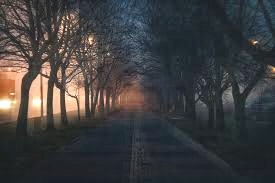
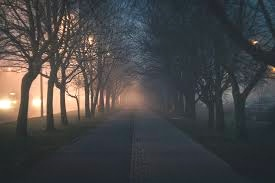
Added the soft matting part into the code.

diff --git a/our_impl.py b/our_impl.py
@@ -3,10 +3,38 @@ import cv2
 import sys
 import heapq
 
+
+def Guidedfilter(im,p,r,eps):
+    mean_I = cv2.boxFilter(im,cv2.CV_64F,(r,r)) 
+    mean_p = cv2.boxFilter(p, cv2.CV_64F,(r,r)) 
+    mean_Ip = cv2.boxFilter(im*p,cv2.CV_64F,(r,r)) 
+    cov_Ip = mean_Ip - mean_I*mean_p 
+
+    mean_II = cv2.boxFilter(im*im,cv2.CV_64F,(r,r)) 
+    var_I   = mean_II - mean_I*mean_I 
+
+    a = cov_Ip/(var_I + eps) 
+    b = mean_p - a*mean_I 
+
+    mean_a = cv2.boxFilter(a,cv2.CV_64F,(r,r)) 
+    mean_b = cv2.boxFilter(b,cv2.CV_64F,(r,r)) 
+
+    q = mean_a*im + mean_b 
+    return q 
+
+def TransmissionRefine(im,et):
+    gray = cv2.cvtColor(im,cv2.COLOR_BGR2GRAY) 
+    gray = np.float64(gray)/255 
+    r = 60 
+    eps = 0.0001 
+    t = Guidedfilter(gray,et,r,eps) 
+
+    return t 
+
 file_name = sys.argv[1]
 
-
-I = cv2.imread(file_name, cv2.IMREAD_COLOR).astype("float64")/255 
+src = cv2.imread(file_name, cv2.IMREAD_COLOR)
+I = src.astype("float64")/255 
 
 #print(I[500:550, 500:550, :])
 
@@ -53,7 +81,7 @@ for _, i, j in HEAP:
 		
 				
 #transmission
-omega = 0.95
+omega = 0.75
 temp_I = np.empty(I.shape,I.dtype)
 for i in range(3):
 	temp_I[:, :, i] = I[:, :, i]/ATM_LIGHT[i]
@@ -78,11 +106,12 @@ t0 = 0.1
 #ATM_LIGHT = np.array([ATM_LIGHT])
 
 #scene_radiance = ( I - ATM_LIGHT ) / cv2.max(t0, transmission )  + ATM_LIGHT	
+transmission = TransmissionRefine(src, transmission)
 
 scene_radiance = np.empty(I.shape, I.dtype)
 for i in range(0,3):
 	scene_radiance[:,:,i] = (I[:,:,i]-ATM_LIGHT[i])/transmission + ATM_LIGHT[i]
-
+     
 scene_radiance_e = scene_radiance + 0.1     
 	     
 cv2.imshow("scene_radiance_exposed", scene_radiance_e)
